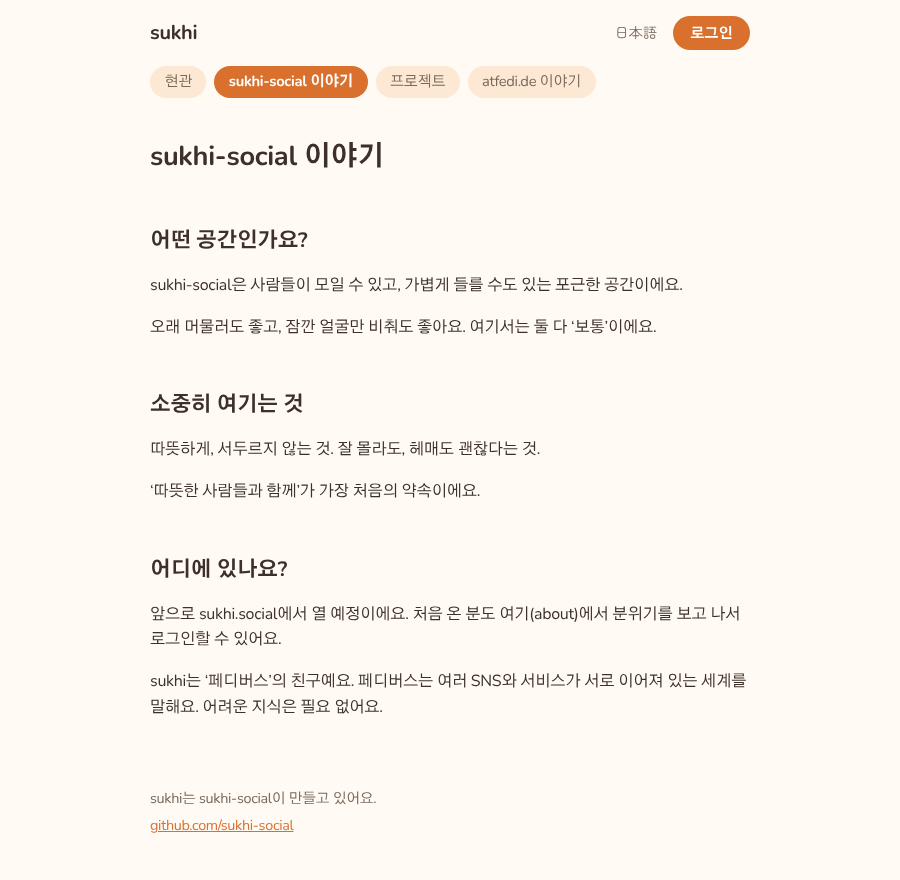
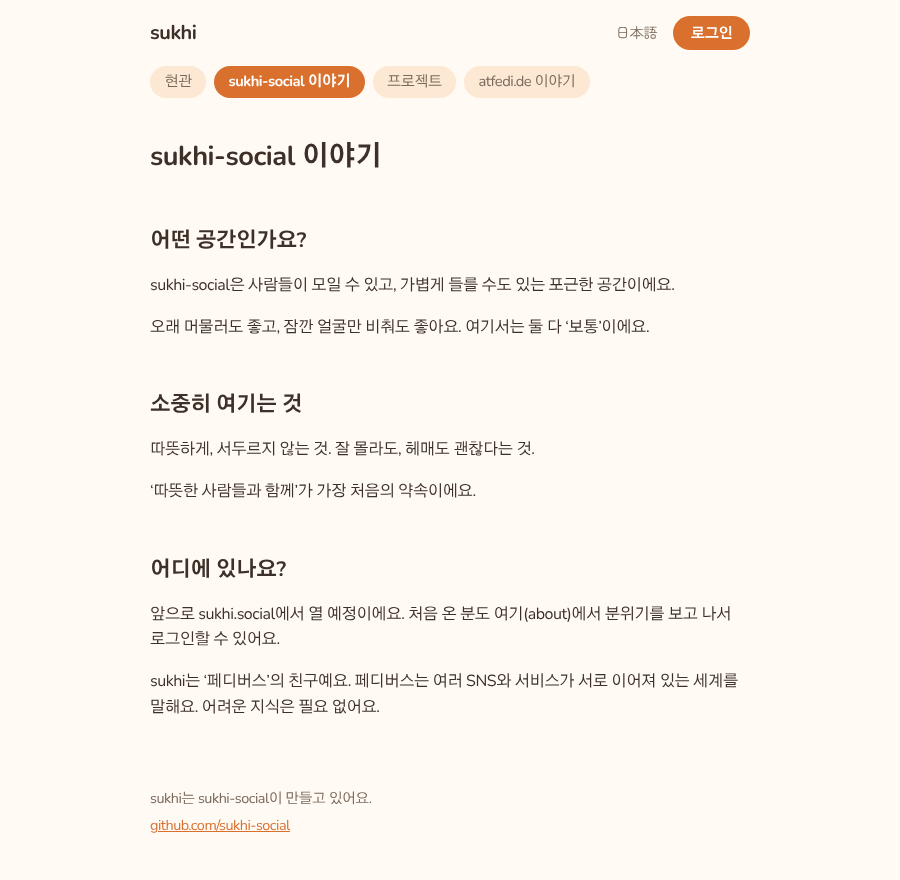
Korean: letter-spacing -0.03em
Claude-Session: https://claude.ai/code/session_01EUxHZau6UP3xLAsGqKBsmf

diff --git a/src/styles/about.css b/src/styles/about.css
@@ -89,5 +89,5 @@ main { min-height: 50vh; }
 .bar .right { display: flex; align-items: center; gap: 1rem; }
 .button.small { padding: 0.3rem 1.1rem; font-size: 0.9rem; line-height: 1.7; }
 
-/* 韓国語(Gothic A1)は、字間をほんの少しつめて、行間を 1.6 に。 */
-html:lang(ko) body { letter-spacing: -0.02em; line-height: 1.6; }
+/* 韓国語(Gothic A1)は、字間をつめて(-0.03em)、行間を 1.6 に。 */
+html:lang(ko) body { letter-spacing: -0.03em; line-height: 1.6; }
